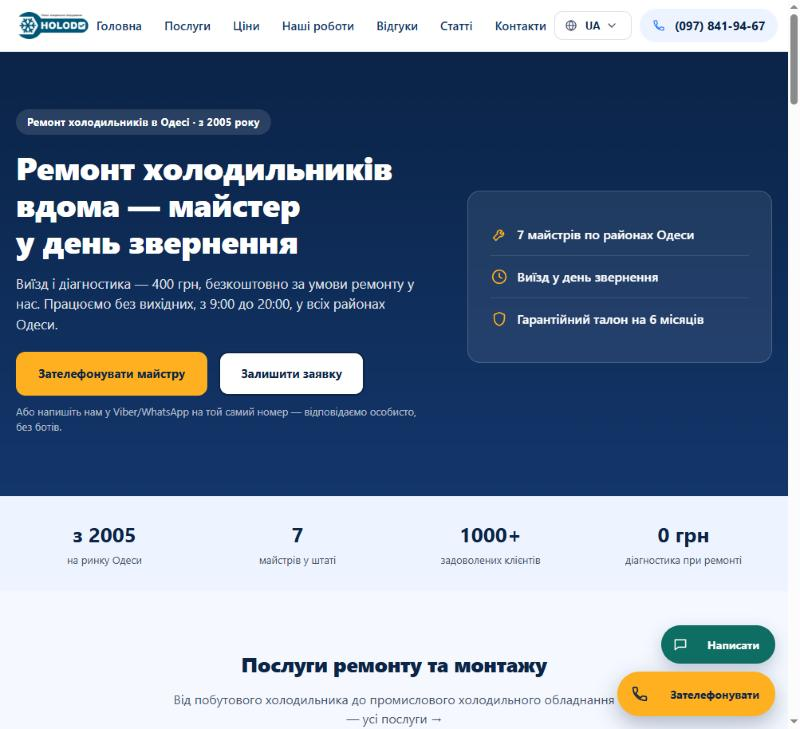
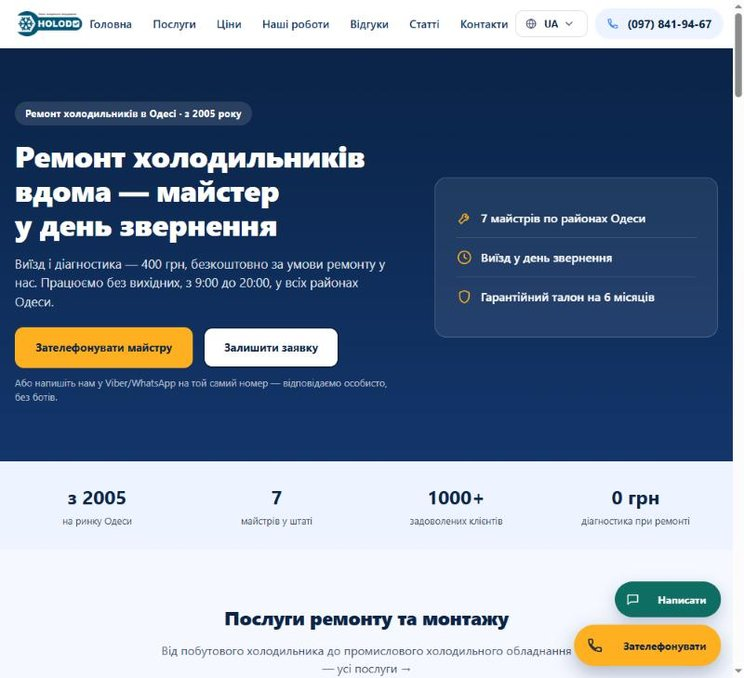
Add before/after comparison with links to original + demo for all 3 cases

diff --git a/index.html b/index.html
@@ -9,7 +9,8 @@
 <link rel="icon" href="data:,">
 <link rel="preconnect" href="https://fonts.googleapis.com">
 <link rel="preconnect" href="https://fonts.gstatic.com" crossorigin>
-<link href="https://fonts.googleapis.com/css2?family=Fraunces:ital,opsz,wght@0,9..144,500;0,9..144,600;1,9..144,500&family=IBM+Plex+Sans:wght@400;500;600&display=swap" rel="stylesheet">
+<link href="https://fonts.googleapis.com/css2?family=Fraunces:ital,opsz,wght@0,9..144,500;0,9..144,600;1,9..144,500&family=IBM+Plex+Sans:wght@400;500;600&display=swap" rel="stylesheet" media="print" onload="this.media='all'">
+<noscript><link href="https://fonts.googleapis.com/css2?family=Fraunces:ital,opsz,wght@0,9..144,500;0,9..144,600;1,9..144,500&family=IBM+Plex+Sans:wght@400;500;600&display=swap" rel="stylesheet"></noscript>
 <style>
 :root{
   --paper:#FAF6F0; --paper-raised:#F2ECE2; --ink:#201C18; --ink-soft:#6B6258;
@@ -43,6 +44,12 @@ p{margin:0 0 16px}
 .case h3{color:var(--ink);font-family:var(--serif);font-weight:600;font-size:26px;margin:0}
 .case .role{color:var(--accent);font-size:13px;font-weight:600;white-space:nowrap}
 .case img{width:100%;height:auto;border-radius:4px;display:block;margin:20px 0;border:1px solid var(--line)}
+.compare{display:grid;grid-template-columns:1fr 1fr;gap:16px;margin:20px 0}
+.compare figure{margin:0}
+.compare img{margin:0 0 8px}
+.compare figcaption{display:flex;justify-content:space-between;align-items:baseline;font-size:12.5px;color:var(--ink-soft)}
+.compare figcaption a{color:var(--accent);font-weight:600}
+@media (max-width:600px){.compare{grid-template-columns:1fr}}
 .stats{display:flex;flex-wrap:wrap;gap:28px 36px;margin:24px 0;padding:20px 0;border-top:1px solid var(--line);border-bottom:1px solid var(--line)}
 .stat strong{display:block;color:var(--ink);font-family:var(--serif);font-size:28px;font-weight:600}
 .stat span{font-size:12.5px;color:var(--ink-soft)}
@@ -101,7 +108,16 @@ footer p{max-width:420px;margin:0 0 32px}
       <h3>Virtuos Dental — стоматологічна клініка, Одеса</h3>
       <span class="role">Повний редизайн · 2026</span>
     </div>
-    <img src="assets/virtuos-case.jpg" alt="Скріншот редизайну сайту Virtuos Dental" width="800" height="826">
+    <div class="compare">
+      <figure>
+        <img src="assets/before-virtuos.jpg" alt="До: оригінальний сайт Virtuos Dental" width="744" height="768">
+        <figcaption>До · <a href="http://virtuosdental.od.ua/" target="_blank" rel="noopener">оригінал ↗</a></figcaption>
+      </figure>
+      <figure>
+        <img src="assets/virtuos-case.jpg" alt="Після: редизайн сайту Virtuos Dental" width="744" height="768">
+        <figcaption>Після · <a href="https://denayze34.github.io/virtuos-dental-redesign/" target="_blank" rel="noopener">демо ↗</a></figcaption>
+      </figure>
+    </div>
     <p>Оригінал — сайт 2016 року без адаптивної верстки. Переніс усі 26 реальних сторінок, включно з 20 статтями про методи лікування, з оригінальними фото та ілюстраціями, звірених з першоджерелом рядок за рядком. Прогнав через Google Lighthouse і знайшов реальні проблеми продуктивності: фото клініки важили в рази більше за розмір показу на екрані — стиснув і прибрав зсуви верстки.</p>
     <div class="stats">
       <div class="stat"><strong>26</strong><span>сторінок, паритет з оригіналом</span></div>
@@ -115,14 +131,22 @@ footer p{max-width:420px;margin:0 0 32px}
       <h3>Холод-ОК — ремонт холодильників, Одеса</h3>
       <span class="role">Повний редизайн · 3 мови сайту</span>
     </div>
-    <img src="assets/holodok-case.jpg" alt="Скріншот редизайну сайту Холод-ОК" width="800" height="729">
+    <div class="compare">
+      <figure>
+        <img src="assets/before-holodok.jpg" alt="До: оригінальний сайт Холод-ОК" width="744" height="768">
+        <figcaption>До · <a href="http://remont-holodilnik.od.ua/" target="_blank" rel="noopener">оригінал ↗</a></figcaption>
+      </figure>
+      <figure>
+        <img src="assets/holodok-case.jpg" alt="Після: редизайн сайту Холод-ОК" width="744" height="678">
+        <figcaption>Після · <a href="https://denayze34.github.io/holod-ok-redesign/" target="_blank" rel="noopener">демо ↗</a></figcaption>
+      </figure>
+    </div>
     <p>Сайт майстерні стояв на WordPress ще з 2017 року. Переробив його в статичний сайт на трьох мовах і звірив з оригіналом кожну сторінку — щоб жодна стаття, форма чи відгук не загубилися при переносі. Додав SEO-розмітку, яку розуміють пошуковики, і прогнав готовий сайт через axe-core: знайшов і поправив три місця з заниженим контрастом тексту та кілька пропущених рівнів заголовків.</p>
     <div class="stats">
       <div class="stat"><strong>3</strong><span>мови (uk/ru/en)</span></div>
       <div class="stat"><strong>156</strong><span>сторінок, 36 статей з паритетом</span></div>
       <div class="stat"><strong>0</strong><span>биті посилання, 0 порушень WCAG AA</span></div>
     </div>
-    <a class="cta" href="https://denayze34.github.io/holod-ok-redesign/" target="_blank" rel="noopener">Живий демо-сайт ↗</a>
   </div>
 
   <div class="case">
@@ -130,14 +154,22 @@ footer p{max-width:420px;margin:0 0 32px}
       <h3>ГрандМастер — натяжні стелі, Одеса</h3>
       <span class="role">Повний редизайн · 10 сторінок</span>
     </div>
-    <img src="assets/grandmaster-case.jpg" alt="Скріншот редизайну сайту ГрандМастер" width="800" height="650">
+    <div class="compare">
+      <figure>
+        <img src="assets/before-grandmaster.jpg" alt="До: оригінальний сайт ГрандМастер" width="744" height="768">
+        <figcaption>До · <a href="http://grandmaster.od.ua/" target="_blank" rel="noopener">оригінал ↗</a></figcaption>
+      </figure>
+      <figure>
+        <img src="assets/grandmaster-case.jpg" alt="Після: редизайн сайту ГрандМастер" width="744" height="604">
+        <figcaption>Після · <a href="https://denayze34.github.io/grandmaster-redesign/" target="_blank" rel="noopener">демо ↗</a></figcaption>
+      </figure>
+    </div>
     <p>Оригінал — верстка приблизно 2008 року, і на різних сторінках там вказано три різні ціни за м². Не став тихо обирати одну — переніс усі три в редизайн, з поміткою, яку саме уточнювати у замірника. Решта контенту так само реальна: прайс-лист, п'ять відгуків дослівно, акції, контакти з позначкою про можливе перейменування вулиці, справжній логотип компанії.</p>
     <div class="stats">
       <div class="stat"><strong>10</strong><span>реальних сторінок оригіналу</span></div>
       <div class="stat"><strong>0</strong><span>порушень WCAG AA, усі сторінки</span></div>
       <div class="stat"><strong>3→0</strong><span>цінових розбіжності — розкрито, не приховано</span></div>
     </div>
-    <a class="cta" href="https://denayze34.github.io/grandmaster-redesign/" target="_blank" rel="noopener">Живий демо-сайт ↗</a>
   </div>
 </section>
 
